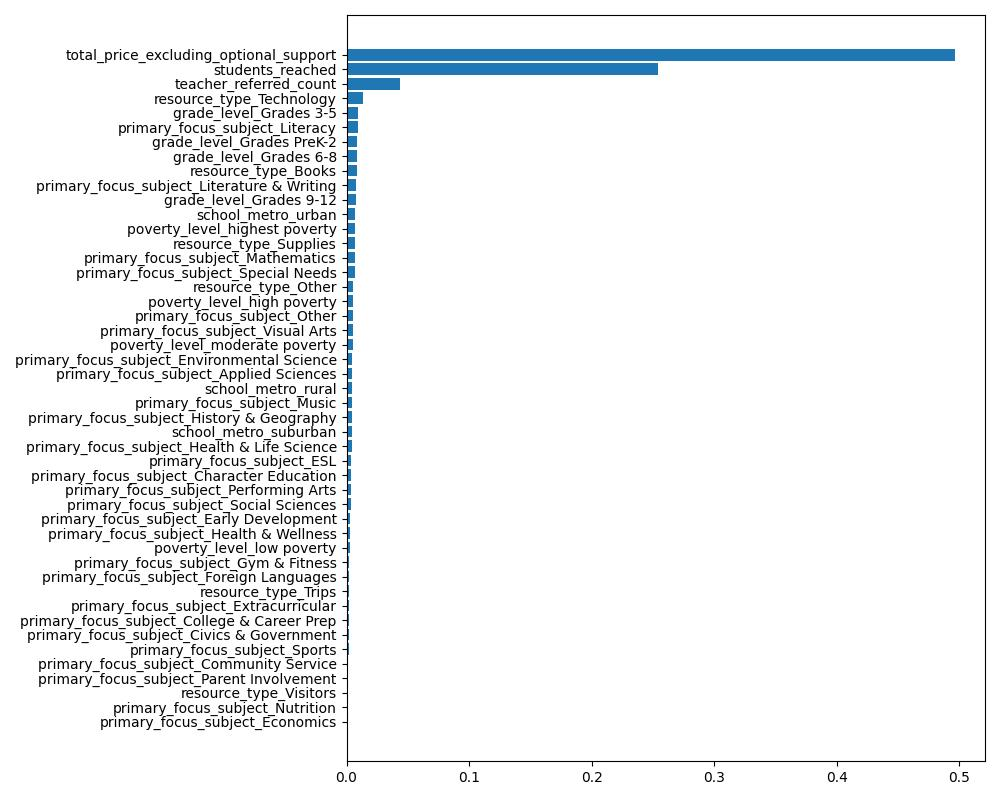
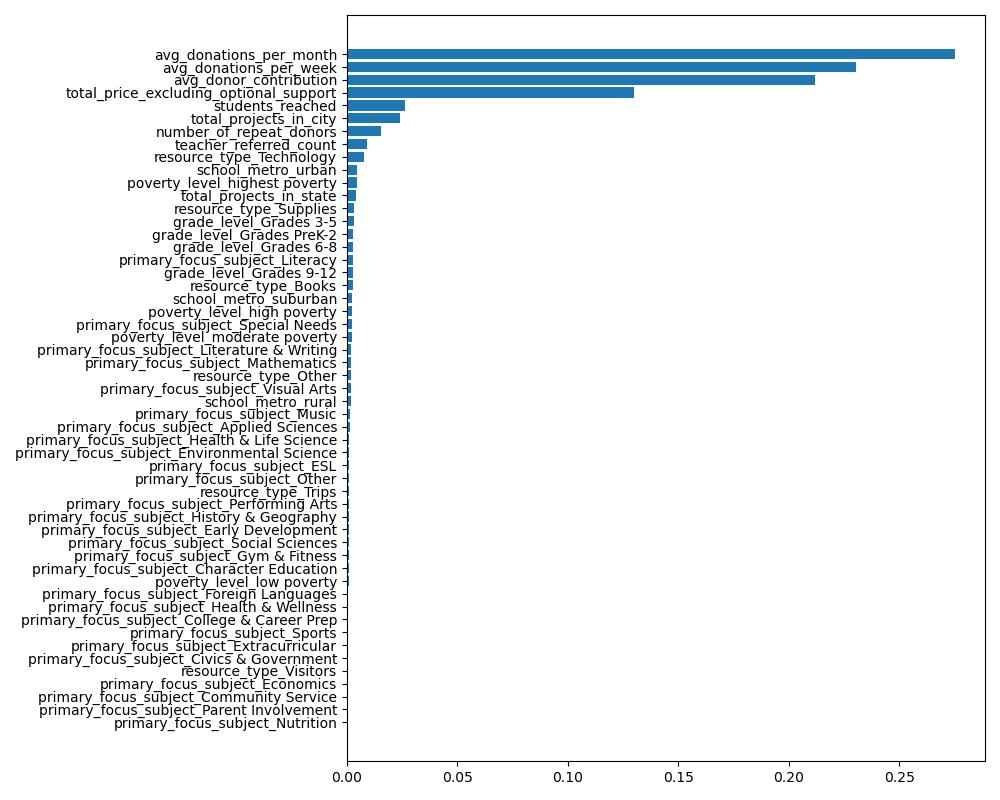
Add feature engineering functions

diff --git a/project/features/feature_engineering.py b/project/features/feature_engineering.py
@@ -1,0 +1,100 @@
+import pandas as pd
+import numpy as np
+import json
+
+# Load configuration from JSON
+def load_config(config_file="../config.json"):
+    with open(config_file, 'r') as file:
+        config = json.load(file)
+    return config
+
+def aggregate_temporal(df_donations):
+    """
+    Create temporal features such as avg donations per week, monthly total donations.
+    """
+    # Handle inconsistent datetime formats
+    df_donations['donation_timestamp'] = pd.to_datetime(df_donations['donation_timestamp'], errors='coerce')
+
+    # Remove rows where the timestamp couldn't be parsed
+    df_donations = df_donations.dropna(subset=['donation_timestamp']).copy()  # Ensure it's a copy
+
+    # Use .loc to assign new columns
+    df_donations.loc[:, 'week'] = df_donations['donation_timestamp'].dt.isocalendar().week
+    df_donations.loc[:, 'month'] = df_donations['donation_timestamp'].dt.month
+    
+    # Avg donations per week
+    donations_weekly = df_donations.groupby(['projectid', 'week']).agg({
+        'donation_to_project': 'sum'
+    }).groupby('projectid').mean().rename(columns={'donation_to_project': 'avg_donations_per_week'})
+    
+    # Total donations per month
+    donations_monthly = df_donations.groupby(['projectid', 'month']).agg({
+        'donation_to_project': 'sum'
+    }).groupby('projectid').mean().rename(columns={'donation_to_project': 'avg_donations_per_month'})
+    
+    return donations_weekly, donations_monthly
+
+def aggregate_geographic(df_projects):
+    """
+    Aggregate projects by city and state while keeping projectid.
+    Adds columns for total projects in that city and state.
+    """
+    # Count total projects by city
+    projects_by_city = df_projects.groupby('school_city').size().reset_index(name='total_projects_in_city')
+    df_city_with_counts = df_projects.merge(projects_by_city, on='school_city', how='left')
+    projects_by_city = df_city_with_counts[['projectid', 'total_projects_in_city']]
+
+    # Count total projects by state
+    projects_by_state = df_projects.groupby('school_state').size().reset_index(name='total_projects_in_state')
+    df_state_with_counts = df_projects.merge(projects_by_state, on='school_state', how='left')  # Corrected to merge on school_state
+    projects_by_state = df_state_with_counts[['projectid', 'total_projects_in_state']]
+
+    return projects_by_city, projects_by_state
+
+def aggregate_donor(df_donations):
+    """
+    Create donor-based aggregation features.
+    """
+    # Avg donor contribution per project
+    avg_donor_contribution = df_donations.groupby('projectid')['donation_to_project'].mean().reset_index(name='avg_donor_contribution')
+    
+    # Number of repeat donors per project
+    repeat_donors = df_donations.groupby(['projectid', 'donor_acctid']).size().reset_index(name='donations_count')
+    repeat_donors = repeat_donors[repeat_donors['donations_count'] > 1]
+    repeat_donors_count = repeat_donors.groupby('projectid').size().reset_index(name='number_of_repeat_donors')
+    
+    return avg_donor_contribution, repeat_donors_count
+
+if __name__ == "__main__":
+    # Load data and config
+    config = load_config()
+    donations_file = config["raw_datasets"]["donations"]
+    projects_file = config["raw_datasets"]["projects"]
+    cleaned_dataset_file = "../outputs/selected_dataset.csv"
+    
+    df_donations = pd.read_csv(donations_file)
+    df_projects = pd.read_csv(projects_file)
+    df_cleaned = pd.read_csv(cleaned_dataset_file)
+    
+    # Temporal aggregation features
+    donations_weekly, donations_monthly = aggregate_temporal(df_donations)
+
+    # Donor aggregation features
+    avg_donor_contribution, repeat_donors_count = aggregate_donor(df_donations)
+
+    # Geographic aggregation features
+    projects_by_city, projects_by_state = aggregate_geographic(df_projects)
+    
+    # Merge the new features into the cleaned dataset (on 'projectid')
+    df_cleaned = df_cleaned.merge(donations_weekly, on='projectid', how='left')
+    df_cleaned = df_cleaned.merge(donations_monthly, on='projectid', how='left')
+    df_cleaned = df_cleaned.merge(avg_donor_contribution, on='projectid', how='left')
+    df_cleaned = df_cleaned.merge(repeat_donors_count, on='projectid', how='left')
+    df_cleaned = df_cleaned.merge(projects_by_city, on='projectid', how='left')
+    df_cleaned = df_cleaned.merge(projects_by_state, on='projectid', how='left')
+    
+    # Save the updated dataset with new features
+    cleaned_output_path = "../outputs/selected_dataset_with_new_features.csv"
+    df_cleaned.to_csv(cleaned_output_path, index=False)
+    
+    print(f"Feature engineering complete. Updated dataset saved to {cleaned_output_path}.")

diff --git a/project/run_pipeline.py b/project/run_pipeline.py
@@ -14,12 +14,14 @@ def run_pipeline():
 
     # Define the preprocessing directory
     preprocessing_dir = os.path.join(current_dir, "preprocessing")
+    feature_dir = os.path.join(current_dir, "features")
     split_dir = os.path.join(current_dir, "split")
     model_dir = os.path.join(current_dir, "model")
 
     # Define paths for the scripts
     merge_script = os.path.join(preprocessing_dir, "feature_selection.py")
     clean_script = os.path.join(preprocessing_dir, "data_cleaning.py")
+    feature_script = os.path.join(feature_dir, "feature_engineering.py")
     split_script = os.path.join(split_dir, "data_train_test_split.py")
     model_script = os.path.join(model_dir, "model_training.py")
     eval_script = os.path.join(model_dir, "model_evaluation.py")
@@ -30,6 +32,12 @@ def run_pipeline():
     print("Running dataset merging...")
     subprocess.run(["python", merge_script], cwd=preprocessing_dir, check=True)
 
+    ############################
+    # Run the feature script
+    print("Running feature engineering...")
+    subprocess.run(["python", feature_script], cwd=feature_dir, check=True)
+
+    ############################
     # Run the cleaning script
     print("Running data cleaning...")
     subprocess.run(["python", clean_script], cwd=preprocessing_dir, check=True)

diff --git a/project/preprocessing/data_cleaning.py b/project/preprocessing/data_cleaning.py
@@ -121,7 +121,7 @@ def load_config(config_file="../config.json"):
 if __name__ == "__main__":
     config = load_config()
     
-    selected_dataset_path = "../outputs/selected_dataset.csv"
+    selected_dataset_path = "../outputs/selected_dataset_with_new_features.csv"
     df = pd.read_csv(selected_dataset_path)
     initial_row_count = df.shape[0]
     print(f"Initial number of rows: {initial_row_count}")
